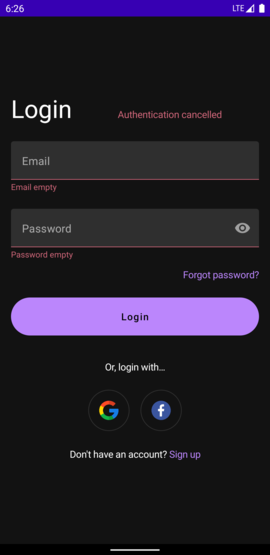
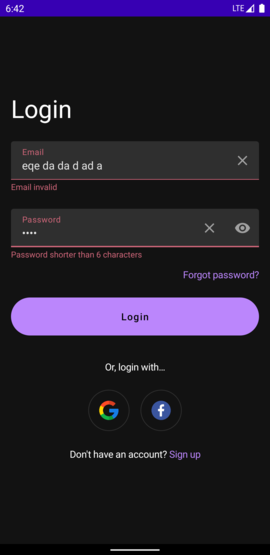
Do small UI improvements

diff --git a/app/src/main/java/ba/grbo/practical/presentation/screens/login/LoginViewModel.kt b/app/src/main/java/ba/grbo/practical/presentation/screens/login/LoginViewModel.kt
@@ -1,6 +1,5 @@
 package ba.grbo.practical.presentation.screens.login
 
-import android.util.Log
 import androidx.compose.runtime.getValue
 import androidx.compose.runtime.mutableStateOf
 import androidx.compose.runtime.setValue
@@ -58,7 +57,7 @@ class LoginViewModel @Inject constructor(
     override val googleAuthAttempt = SingleSharedFlow<Unit>()
 
     init {
-       online.launchIn(viewModelScope)
+        online.launchIn(viewModelScope)
     }
 
     fun onEvent(event: LoginEvent) {
@@ -95,7 +94,11 @@ class LoginViewModel @Inject constructor(
                 state = state.copy(feedback = Int.DEFAULT)
             }
             ForgotPasswordTextClicked -> {
-                state = state.copy(feedback = Int.DEFAULT)
+                state = state.copy(
+                    email = Email.DEFAULT,
+                    password = Password.DEFAULT,
+                    feedback = Int.DEFAULT
+                )
             }
         }
     }
@@ -114,9 +117,15 @@ class LoginViewModel @Inject constructor(
     }
 
     private fun onGoogleLoginButtonClicked() {
-        if (!online.value) state = state.copy(feedback = R.string.auth_failed_network_error)
+        if (!online.value) state = state.copy(
+            email = Email.DEFAULT,
+            password = Password.DEFAULT,
+            feedback = R.string.auth_failed_network_error
+        )
         else {
             state = state.copy(
+                email = Email.DEFAULT,
+                password = Password.DEFAULT,
                 loading = true,
                 feedback = Int.DEFAULT
             )

diff --git a/app/src/main/java/ba/grbo/practical/presentation/screens/signup/SignUpViewModel.kt b/app/src/main/java/ba/grbo/practical/presentation/screens/signup/SignUpViewModel.kt
@@ -169,9 +169,15 @@ class SignUpViewModel @Inject constructor(
     }
 
     private fun onGoogleSignUpButtonClicked() {
-        if (!online.value) state = state.copy(feedback = R.string.auth_failed_network_error)
+        if (!online.value) state = state.copy(
+            email = Email.DEFAULT,
+            password = Password.DEFAULT,
+            feedback = R.string.auth_failed_network_error
+        )
         else {
             state = state.copy(
+                email = Email.DEFAULT,
+                password = Password.DEFAULT,
                 loading = true,
                 feedback = Int.DEFAULT
             )
